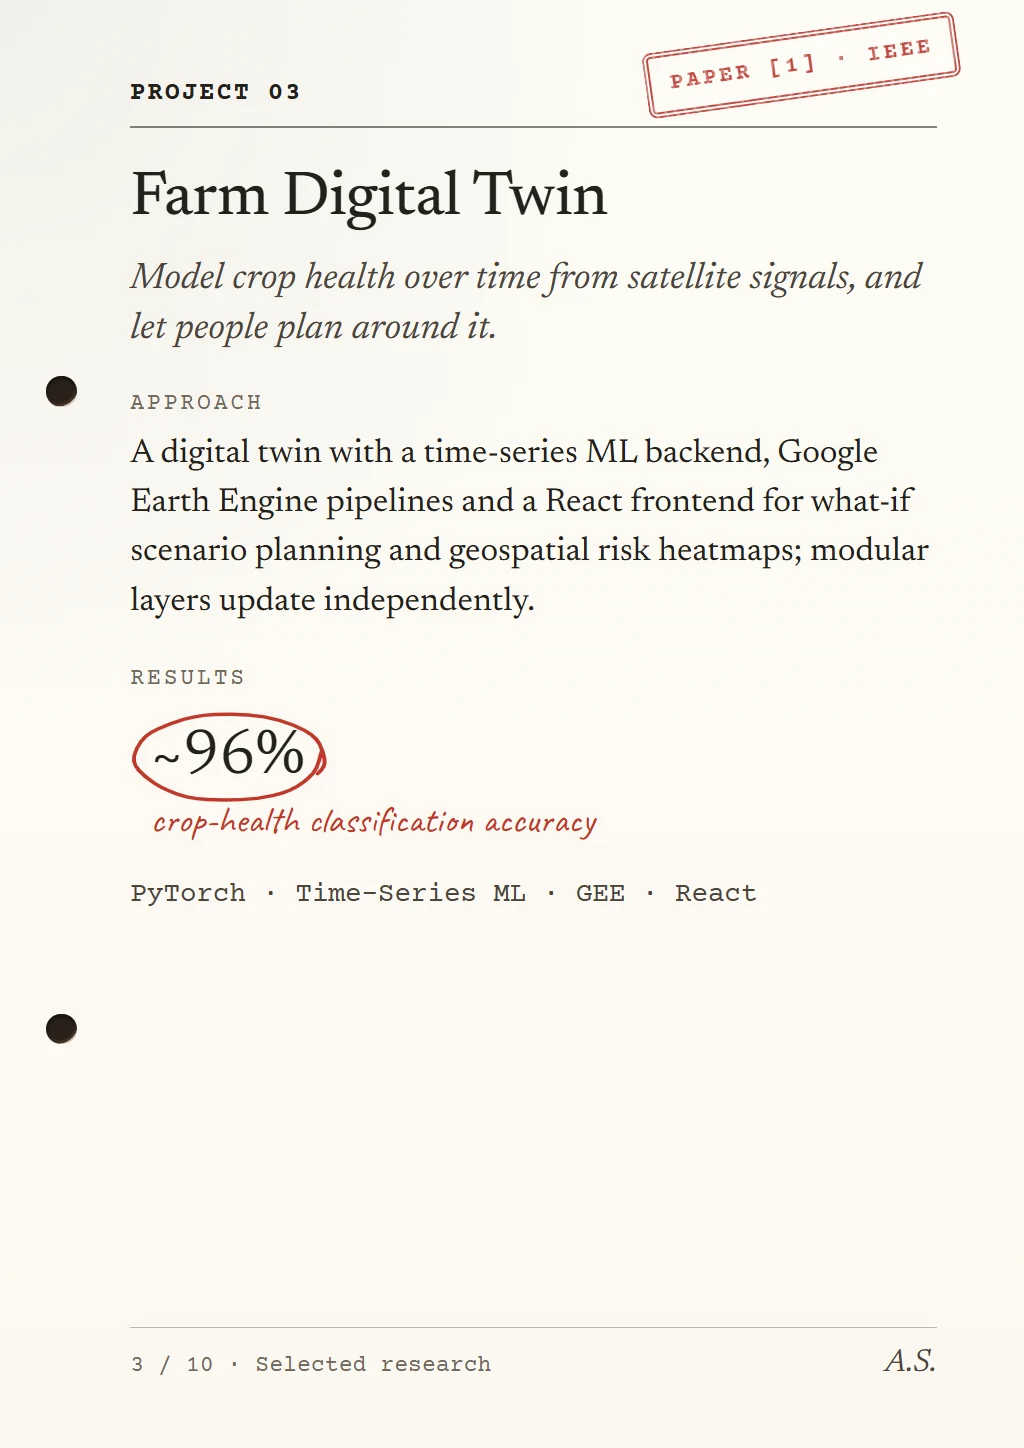
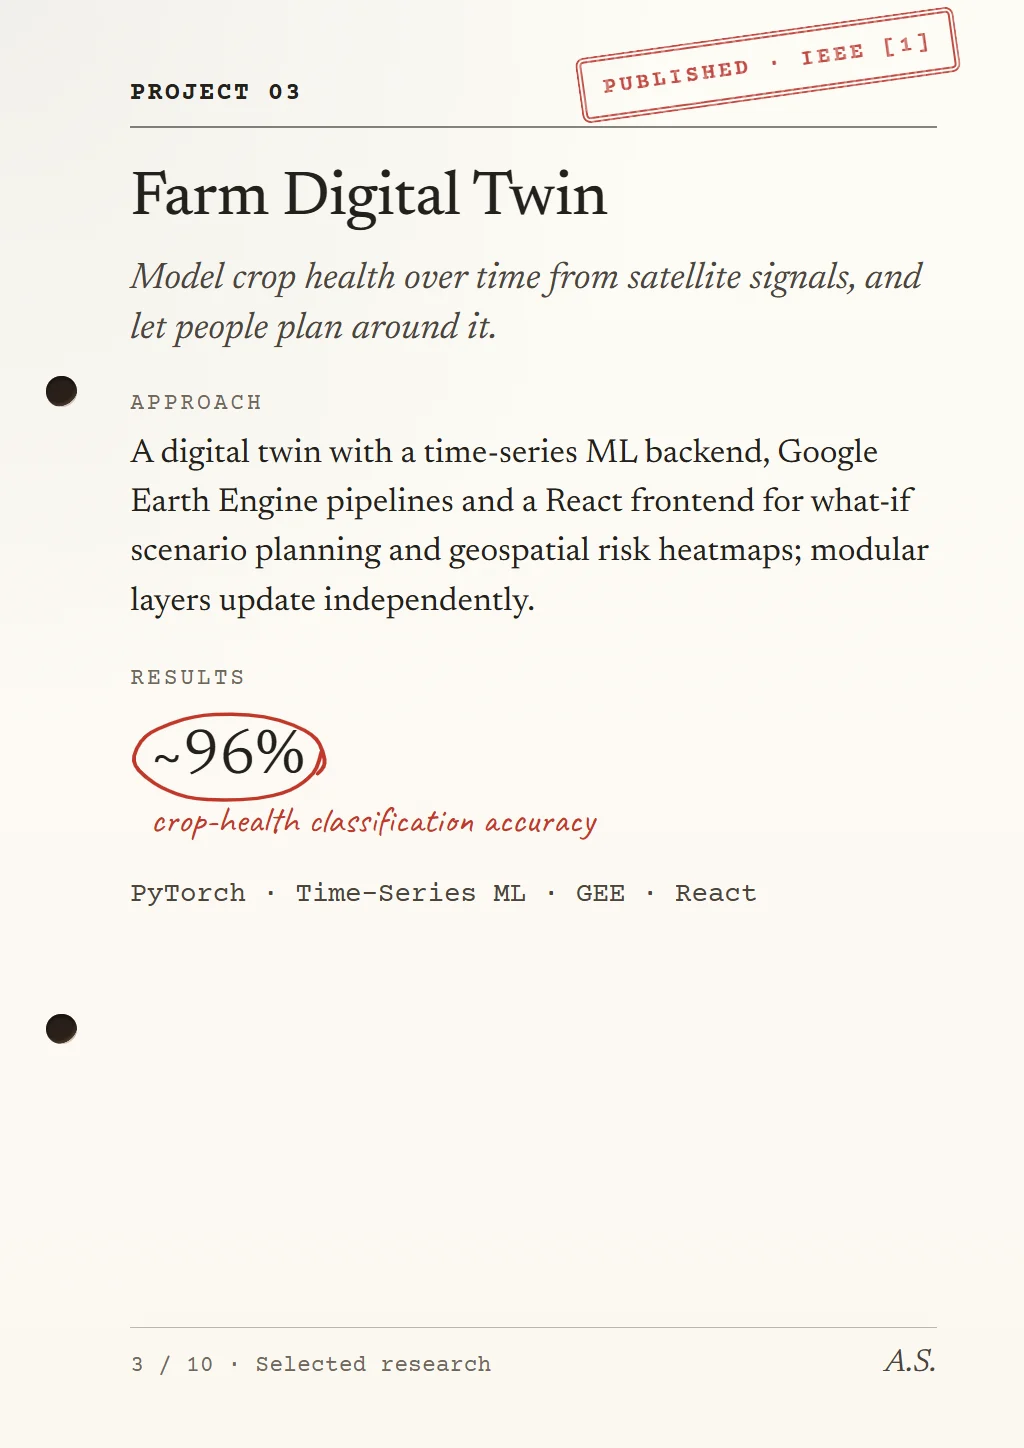
desk: M8 — audit fixes, phone tags and HUD, tag tilt
- Fact audit: paper/project stamps and the GenoMedic stamp now come from src/content (single
  source); "SRM IST Chennai" without the comma, as in her own wording; the report card's
  "Distinctions" heading → "Recognition & service" (the list includes service roles); unused
  statusShort removed. Page textures re-baked.
- Tags: the -3° tilt moves into the projector's transform (a CSS rotate pivoted from the page
  origin and pushed tags up to ~28 px off their objects); on touch, where every tag shows, tags
  stay on screen and stack instead of overlapping
- Phone HUD: no wrapping in buttons; slightly smaller wordmark and tags under 560 px

Changed region(s): [[0.5625, 0.0, 0.9375, 0.0932]]

diff --git a/src/ui/ObjectTag.tsx b/src/ui/ObjectTag.tsx
@@ -4,7 +4,7 @@
  */
 import { useEffect, useRef } from 'react';
 import { useFrame, useThree } from '@react-three/fiber';
-import { Vector3, type Object3D } from 'three';
+import { MathUtils, Vector3, type Object3D } from 'three';
 import { create } from 'zustand';
 import { isTouch } from '../app/capabilities';
 import { useDesk } from '../app/store';
@@ -33,21 +33,43 @@ export function registerTag(id: string, text: string, object: Object3D, offset: 
 }
 
 const v = new Vector3();
+const at = (x: number, y: number) => 'translate3d(' + x.toFixed(1) + 'px, ' + y.toFixed(1) + 'px, 0)';
 /** Projects every anchor to screen space and moves its DOM tag and proxy (CSSOM transforms). */
 export function TagProjector() {
   const camera = useThree((s) => s.camera);
   const size = useThree((s) => s.size);
+  // Touch shows every tag at once: keep them on screen and stack any that collide upwards.
+  const spread = isTouch();
   useFrame(() => {
-    for (const a of anchors.values()) {
+    const pts = [...anchors.values()].map((a) => {
       v.copy(a.offset);
       a.object.localToWorld(v);
       v.project(camera);
-      const x = ((v.x * 0.5 + 0.5) * size.width).toFixed(1);
-      const y = ((-v.y * 0.5 + 0.5) * size.height).toFixed(1);
-      const tag = document.getElementById('tag-' + a.id);
-      if (tag) tag.style.transform = 'translate3d(' + x + 'px, ' + y + 'px, 0) translate(-50%, -100%)';
-      const proxy = document.getElementById('proxy-' + a.id);
-      if (proxy) proxy.style.transform = 'translate3d(' + x + 'px, ' + y + 'px, 0) translate(-50%, -8%)';
+      return { id: a.id, x: (v.x * 0.5 + 0.5) * size.width, y: (-v.y * 0.5 + 0.5) * size.height };
+    });
+    const placed: { x: number; y: number; w: number; h: number }[] = [];
+    for (const p of pts.sort((a, b) => b.y - a.y)) {
+      const proxy = document.getElementById('proxy-' + p.id);
+      if (proxy) proxy.style.transform = at(p.x, p.y) + ' translate(-50%, -8%)';
+      const tag = document.getElementById('tag-' + p.id);
+      if (!tag) continue;
+      let { x, y } = p;
+      if (spread) {
+        const w = tag.offsetWidth;
+        const h = tag.offsetHeight;
+        x = MathUtils.clamp(x, w / 2 + 8, size.width - w / 2 - 8);
+        for (let moved = true, n = 0; moved && n < 8; n++) {
+          moved = false;
+          for (const r of placed) {
+            if (Math.abs(r.x - x) < (r.w + w) / 2 && Math.abs(r.y - y) < h) {
+              y = r.y - h - 2;
+              moved = true;
+            }
+          }
+        }
+        placed.push({ x, y, w, h });
+      }
+      tag.style.transform = at(x, y) + ' translate(-50%, -100%) rotate(-3deg)';
     }
   });
   return null;

diff --git a/src/content/publications.ts b/src/content/publications.ts
@@ -10,6 +10,8 @@ export interface Publication {
   untitled?: boolean;
   status: PubStatus;
   tag: string;
+  /** Short status stamp on the paper and its project page (restates `status` only). */
+  stamp: string;
   /** Author list exactly as published (order never changes). */
   authors?: string;
   venue?: string;
@@ -33,6 +35,7 @@ export const publications: Publication[] = [
     title:
       'Farm Digital Twin and Deep Learning-Based Crop Health Detection Using Multi-Index Vegetation Signals from Sentinel-2 Satellite Imagery',
     status: 'published',
+    stamp: 'Published · IEEE',
     tag: 'Published · IEEE',
     authors: 'Sathya Raman, Ananya Sakhalkar, Priya Debnath',
     venue: '2026 International Conference on System, Computation, Automation and Networking (ICSCAN)',
@@ -63,6 +66,7 @@ export const publications: Publication[] = [
     title:
       'LLM-Based Extraction of Pharmacogenomic Gene-Drug Associations from PharmGKB Text: A Feature-Fusion Approach for Warfarin Dose Prediction',
     status: 'report',
+    stamp: 'Technical report',
     tag: 'Technical report · Sole author',
     authors: 'A. Sakhalkar',
     venue: 'Technical report (arXiv).',
@@ -75,6 +79,7 @@ export const publications: Publication[] = [
     id: 'pub-emotion',
     title: 'Emotion Classification and Emotion-Conditioned Response Generation for Mental-Health Support',
     status: 'preparation',
+    stamp: 'In preparation',
     tag: 'In preparation · Sole author',
     authors: 'A. Sakhalkar',
     venue: 'Manuscript in preparation.',
@@ -89,6 +94,7 @@ export const publications: Publication[] = [
     title: 'Also in preparation: sole-authored extension of the ICSCAN 2026 crop-health detection work.',
     untitled: true,
     status: 'preparation',
+    stamp: 'In preparation',
     tag: 'In preparation · Sole author',
     venue: 'Manuscript in preparation.',
     links: [],

diff --git a/src/content/profile.ts b/src/content/profile.ts
@@ -5,11 +5,10 @@ export const profile = {
   name: 'Ananya Sakhalkar', // F-ID-1
   wordmark: { first: 'A', rest: 'Sakhalkar' },
   status: 'Seeking MS / PhD positions · Summer 2027 intake', // Q1 answer (source A)
-  statusShort: 'Seeking MS / PhD positions',
   lede: 'Machine learning where errors are costly — language models for biomedical text and mental-health support, and production ML on a live healthcare platform.', // ✎
   // ✎ Built from F-ID-2, F-ID-4 (A: 8.93), F-PRJ-5, F-PRJ-6, F-EXP-*.
   intro:
-    'I studied Computer Science at SRM IST, Chennai (B.Tech, 2022 – 2026, CGPA 8.93 / 10). My recent research fine-tunes language models to extract gene–drug associations from PharmGKB text, and to classify emotional state — including crisis risk — in messages, for mental-health support. I have also built and shipped machine learning in production at a government healthcare platform, Jio Platforms and Reliance Industries.',
+    'I studied Computer Science at SRM IST Chennai (B.Tech, 2022 – 2026, CGPA 8.93 / 10). My recent research fine-tunes language models to extract gene–drug associations from PharmGKB text, and to classify emotional state — including crisis risk — in messages, for mental-health support. I have also built and shipped machine learning in production at a government healthcare platform, Jio Platforms and Reliance Industries.',
   links: [
     { label: 'CV (PDF)', href: 'resume.pdf', newTab: true },
     { label: 'Email', href: 'mailto:sakhalkarananya@gmail.com' },

diff --git a/src/styles/app.css b/src/styles/app.css
@@ -62,8 +62,7 @@ html.bake #plain { display: none; }
   font: 600 1.35rem/1 Caveat, 'Segoe Print', cursive;
   border-radius: 2px;
   box-shadow: 0 2px 6px rgb(40 25 10 / 0.25);
-  rotate: -3deg;
-  opacity: 0;
+  opacity: 0; /* the -3° tilt is part of the projector's transform (a CSS rotate would pivot off-screen) */
   transition: opacity 0.18s;
   white-space: nowrap;
   user-select: none;
@@ -126,6 +125,7 @@ html.bake #plain { display: none; }
   background: rgb(251 246 238 / 0.9);
   color: #2a2019;
   font: 500 0.95rem/1 Geist, system-ui, sans-serif;
+  white-space: nowrap;
   cursor: pointer;
   box-shadow: 0 2px 10px rgb(0 0 0 / 0.2);
 }
@@ -232,8 +232,11 @@ html.bake #plain { display: none; }
 .hud-icon { width: 44px; padding: 0; justify-content: center; font-size: 1.05rem; }
 .reader__hud { top: 68px; }
 @media (max-width: 560px) {
+  .hud-mark { padding: 0 12px; font-size: 1.05rem; }
+  .hud-right { gap: 6px; }
   .hud-right .hud-btn:first-child { font-size: 0.8rem; padding: 0 10px; }
   .hud-right a[href='resume.pdf'] { display: none; }
+  .object-tag { padding: 3px 9px 4px; font-size: 1.1rem; }
 }
 .open-desk { position: fixed; right: 16px; bottom: 16px; z-index: 40; }
 

diff --git a/src/reader/pages/PublicationPage.tsx b/src/reader/pages/PublicationPage.tsx
@@ -1,12 +1,6 @@
 import { useState } from 'react';
 import { publications, type Publication } from '../../content/publications';
 
-/** Status stamp wording restates the publication status only (Ananya's corrections applied). */
-const STAMP: Record<Publication['status'], { text: string; tone: 'red' | 'blue' }> = {
-  published: { text: 'Published · IEEE', tone: 'red' },
-  report: { text: 'Technical report', tone: 'blue' },
-  preparation: { text: 'In preparation', tone: 'blue' },
-};
 
 /** Author list exactly as published; her own name is bolded in place (standard citation style). */
 function Authors({ list }: { list: string }) {
@@ -20,7 +14,7 @@ function Authors({ list }: { list: string }) {
 
 export function PublicationPage({ pub, interactive = true }: { pub: Publication; interactive?: boolean }) {
   const [copied, setCopied] = useState(false);
-  const stamp = STAMP[pub.status];
+  const stamp = { text: pub.stamp, tone: pub.status === 'published' ? 'red' : 'blue' };
   const copy = async () => {
     if (!pub.bibtex) return;
     try {

diff --git a/src/reader/pages/ProjectPage.tsx b/src/reader/pages/ProjectPage.tsx
@@ -43,12 +43,10 @@ function hash(s: string): number {
 
 /** Status stamp: restates a fact only (DESK_SPEC §8). */
 function stampFor(p: Project): { text: string; tone: 'red' | 'blue' } | null {
-  if (p.id === 'project-genomedic') return { text: '1st place · Digithon 2.0', tone: 'red' };
+  if (p.stamp) return { text: p.stamp, tone: 'red' };
   const pub = publications.find((x) => x.n === p.relatedPub);
   if (!pub) return null;
-  if (pub.status === 'published') return { text: `Paper [${pub.n}] · IEEE`, tone: 'red' };
-  if (pub.status === 'report') return { text: `Technical report [${pub.n}]`, tone: 'blue' };
-  return { text: `In preparation [${pub.n}]`, tone: 'blue' };
+  return { text: `${pub.stamp} [${pub.n}]`, tone: pub.status === 'published' ? 'red' : 'blue' };
 }
 
 export function ProjectPage({ project, arriving = false }: { project: Project; arriving?: boolean }) {

diff --git a/src/content/projects.ts b/src/content/projects.ts
@@ -16,6 +16,8 @@ export interface Project {
   links: Link[];
   note?: string; // ✎ (D17 / Q12)
   relatedPub?: 1 | 2 | 3;
+  /** Stamp on the project page when it isn't a paper's status. */
+  stamp?: string;
 }
 
 export const projects: Project[] = [
@@ -109,6 +111,7 @@ export const projects: Project[] = [
     figure: { strong: '1st', text: 'at Digithon 2.0, among 77 teams' },
     stack: [],
     links: [],
+    stamp: '1st place · Digithon 2.0', // F-PRJ-9
   },
   {
     n: 8, // F-PRJ-10

diff --git a/src/reader/ReportCardView.tsx b/src/reader/ReportCardView.tsx
@@ -103,7 +103,7 @@ export function ReportCardView() {
           <dl className="rc-list">
             <dt>Research practice</dt>
             <dd>{education.practice}</dd>
-            <dt>Distinctions</dt>
+            <dt>Recognition &amp; service</dt>
             <dd>
               <ul>
                 {recognition.map((r) => (
